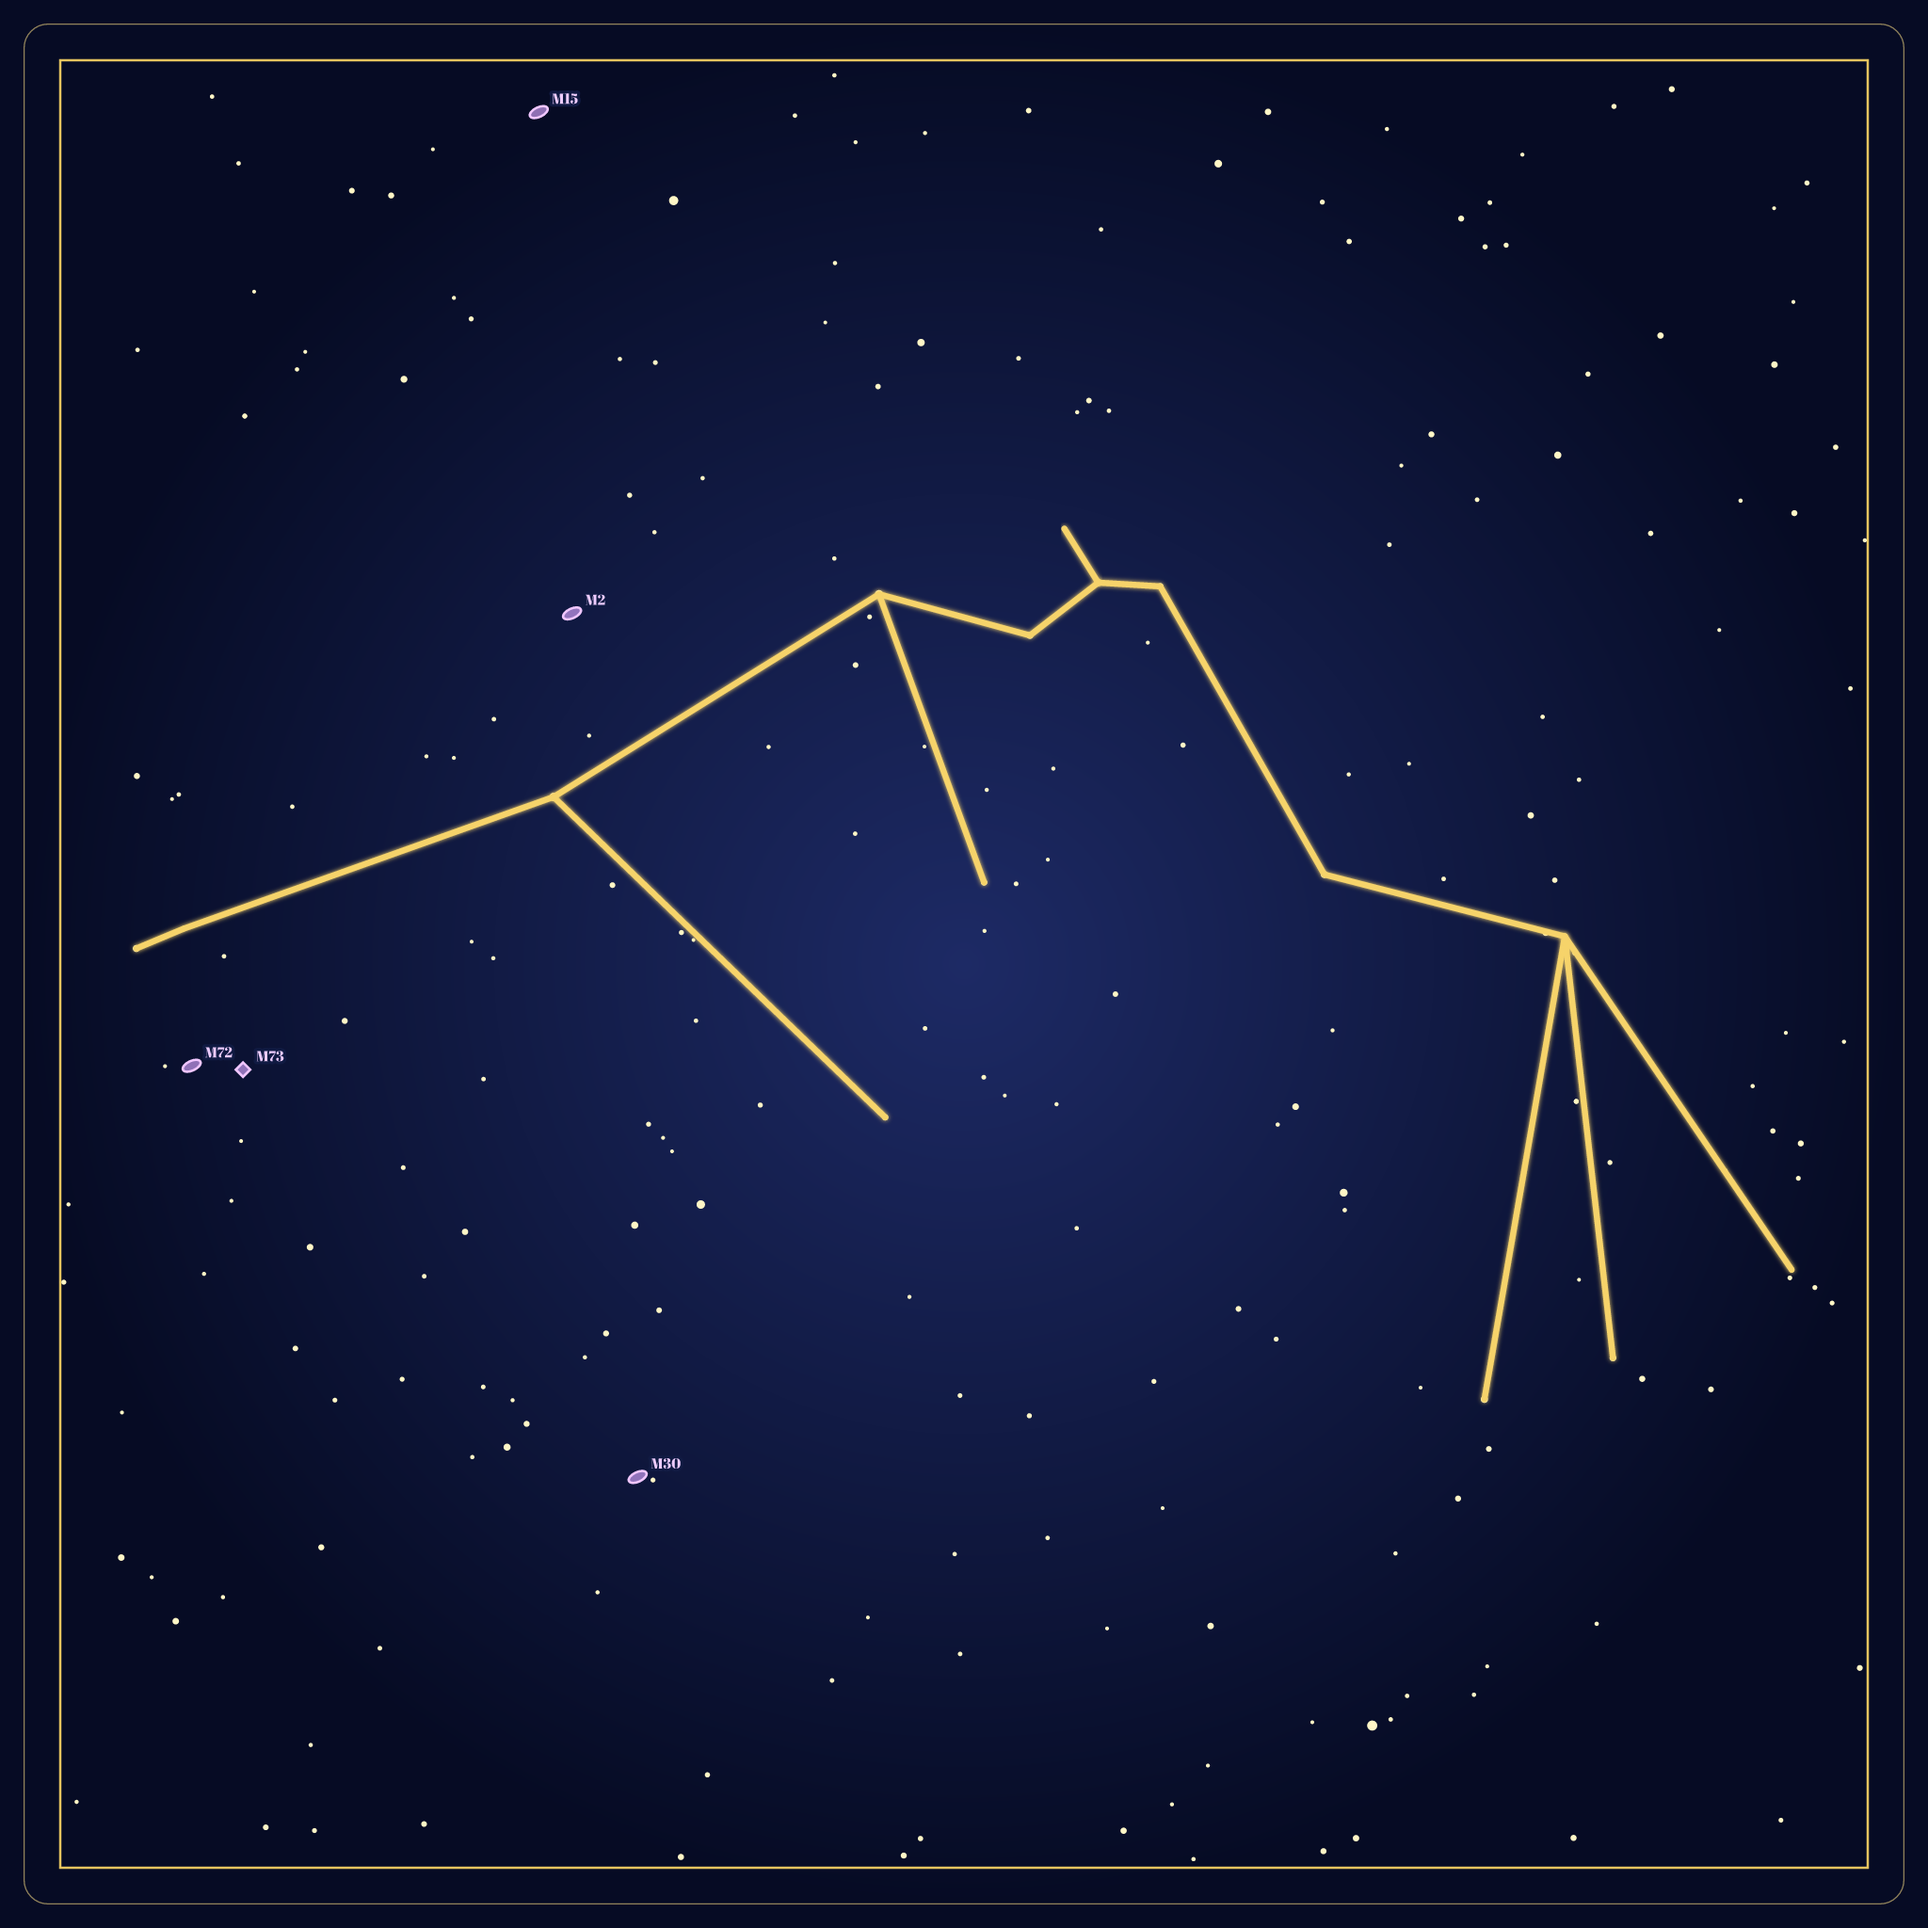
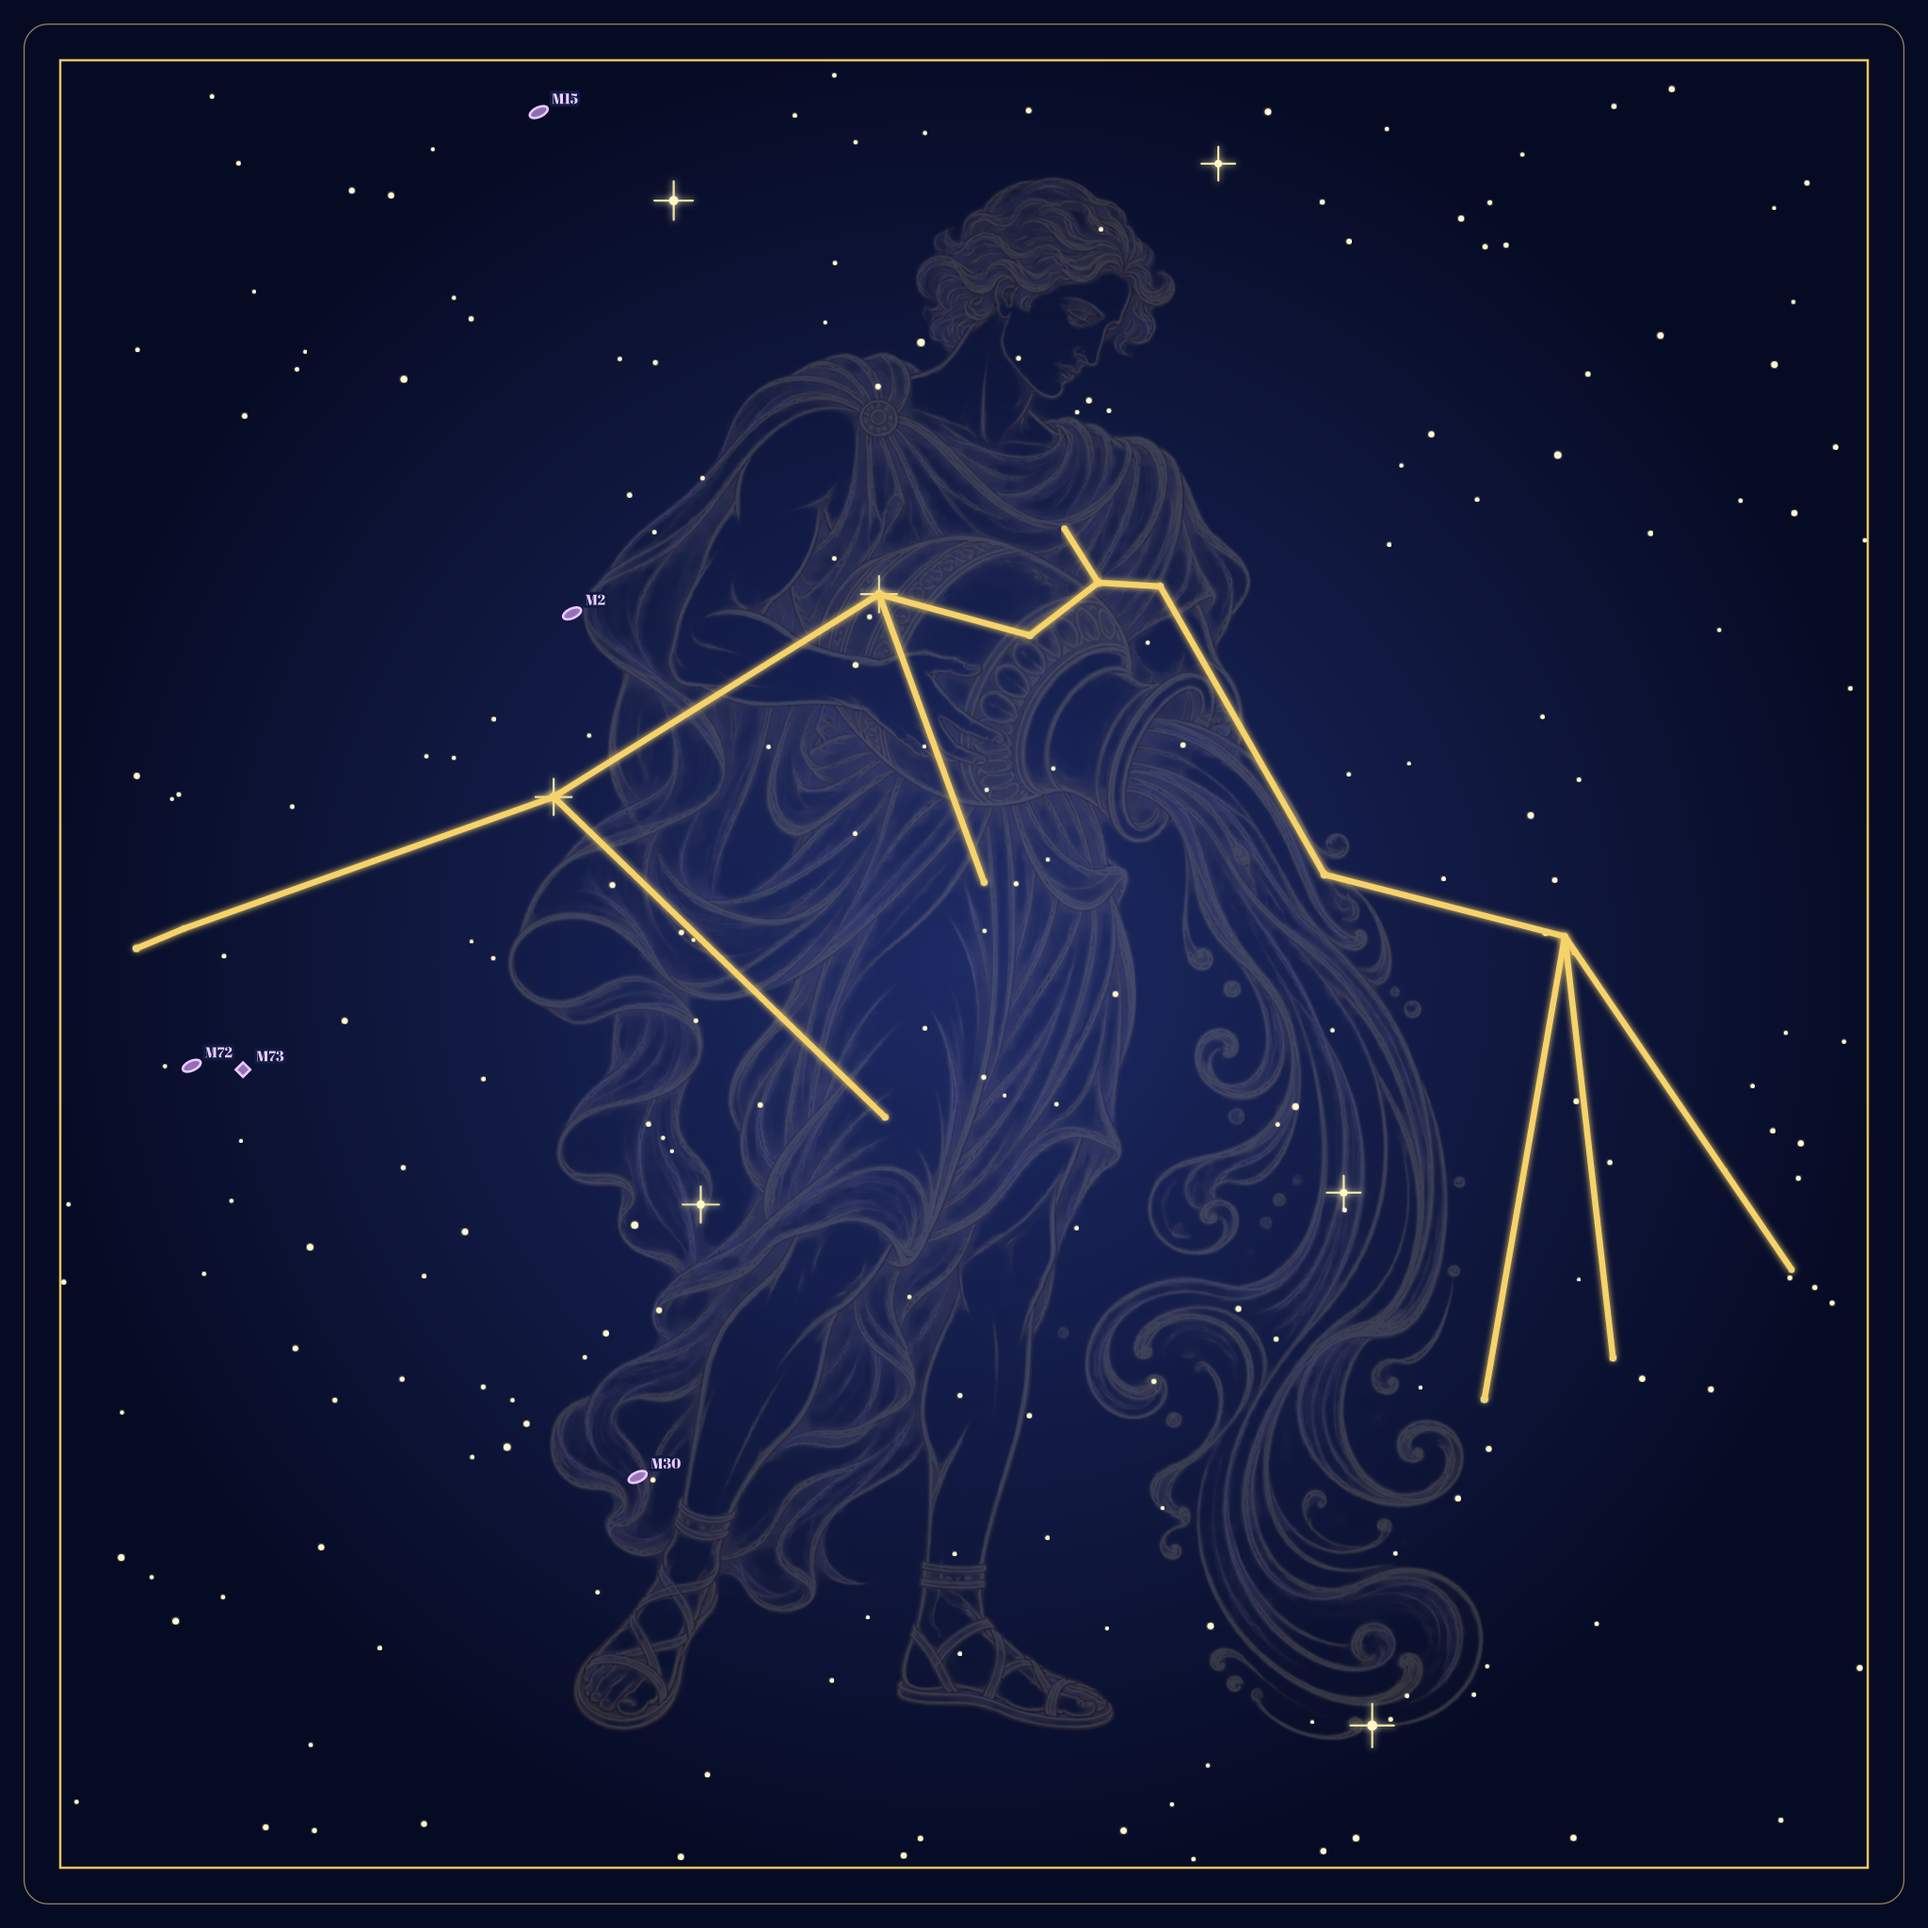
Add zodiac symbol overlays to star charts

diff --git a/README.md b/README.md
@@ -13,5 +13,6 @@
 - `app.js`: 별자리 판정·결과 렌더링
 - `style.css`: 반응형 화면 스타일
 - `assets/zodiac-images/`: 실제 위치 기반 별자리 PNG 12장
+- `assets/zodiac-overlays/`: 성도 뒤에 겹쳐지는 투명 별자리 상징 일러스트 12장
 
 별자리 PNG는 J2000 좌표 기반 성도이며, 실제 관측 시의 방향·고도는 관측 조건에 따라 달라질 수 있습니다. 운세는 과학적 예측이 아닌 축전 체험용 콘텐츠입니다.

diff --git a/assets/zodiac-overlays/README.md b/assets/zodiac-overlays/README.md
@@ -1,0 +1,5 @@
+# 별자리 상징 일러스트 레이어
+
+각 PNG는 투명 배경의 별자리 상징 선화이다. `tools/generate-zodiac-posters.ps1`가 이를 성도 배경 위, 실제 별·별자리 연결선·딥스카이 표식 아래에 19% 불투명도로 배치한다.
+
+따라서 그림은 안내용 장식이며, 항성과 딥스카이의 좌표 또는 별자리 연결선의 위치를 바꾸지 않는다.
